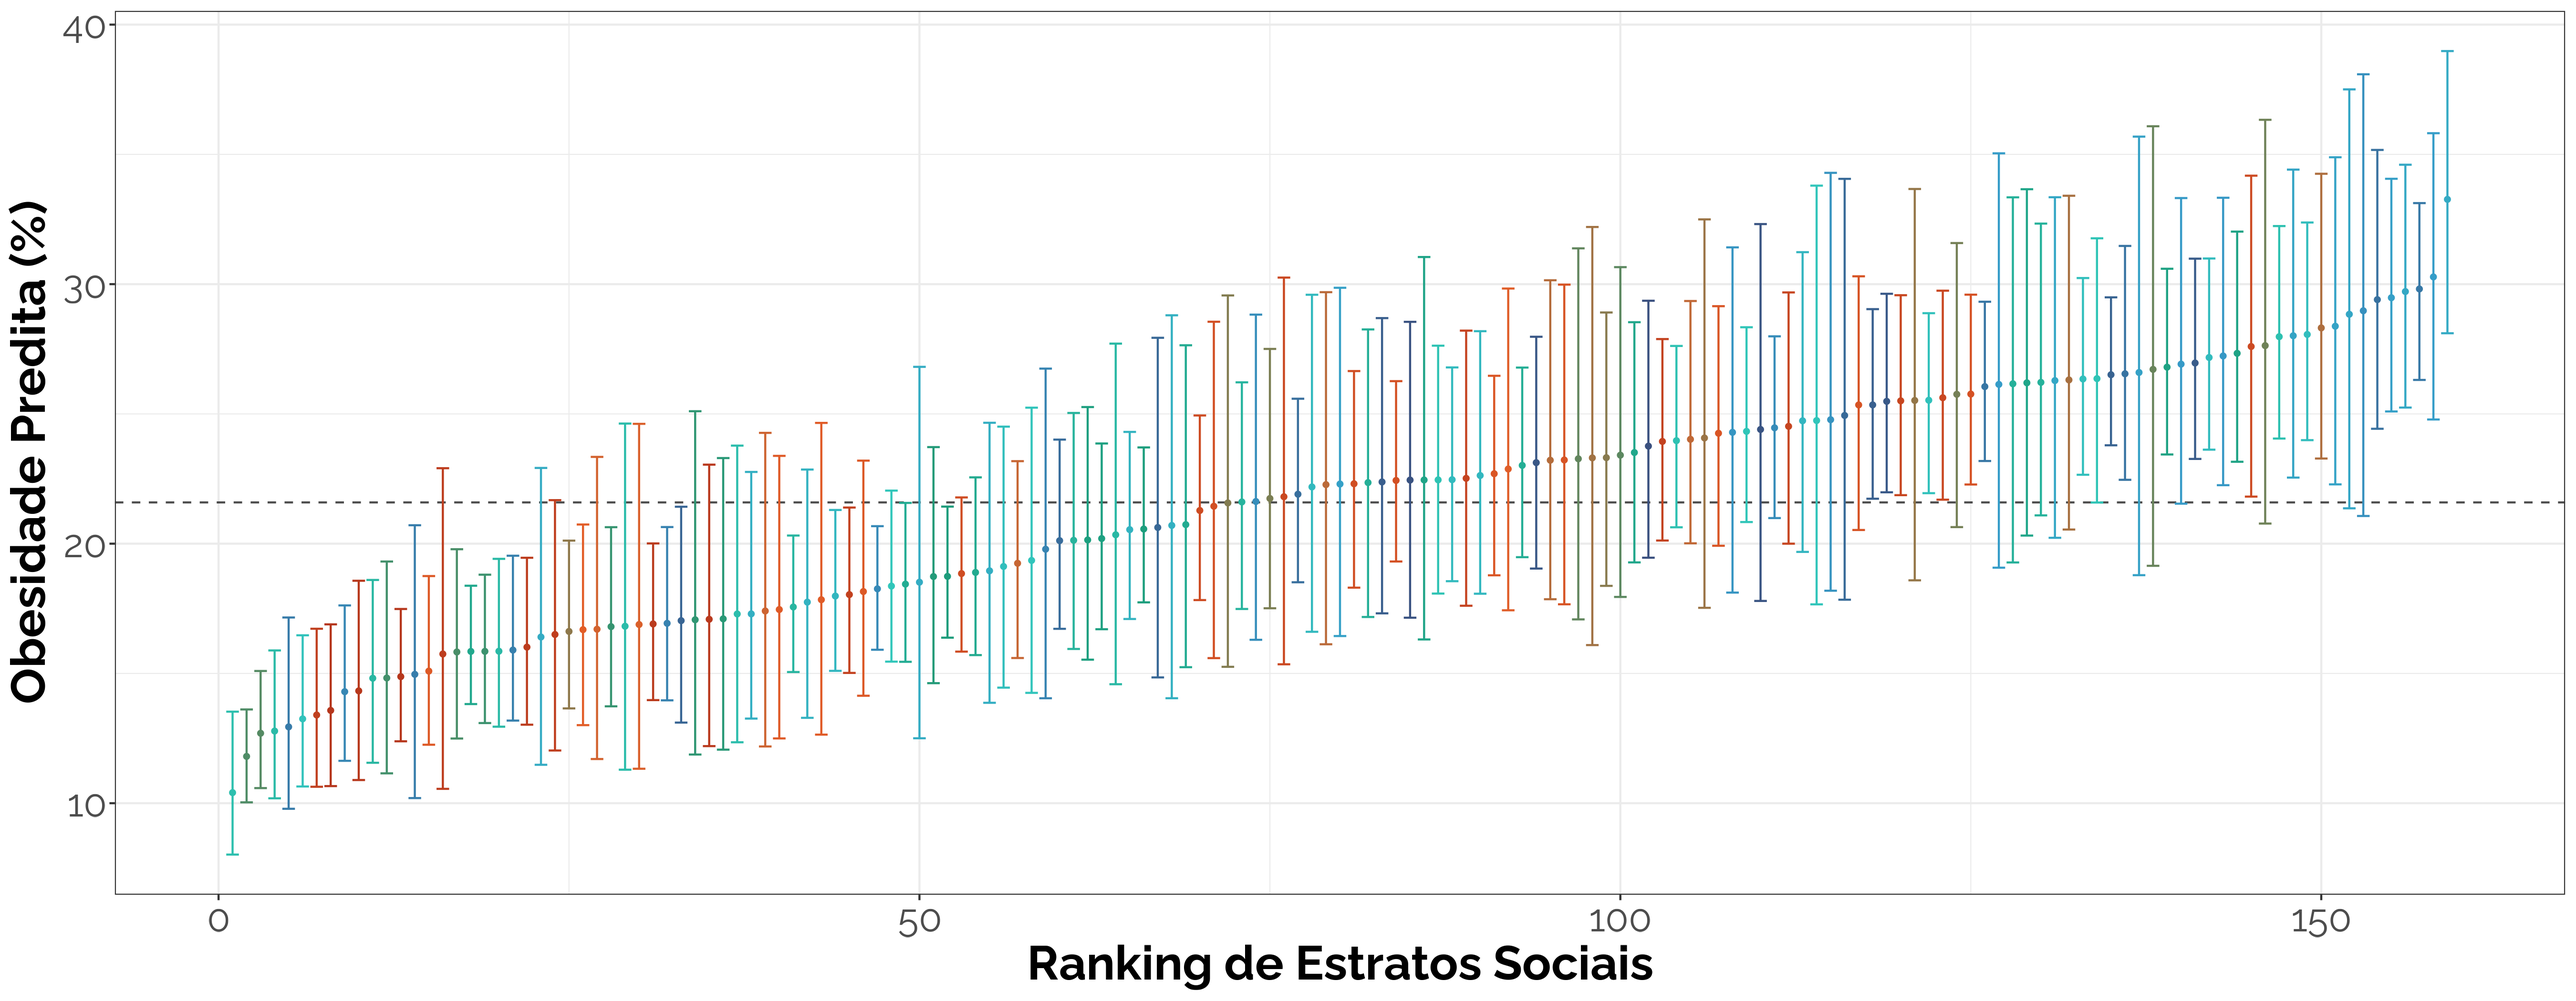
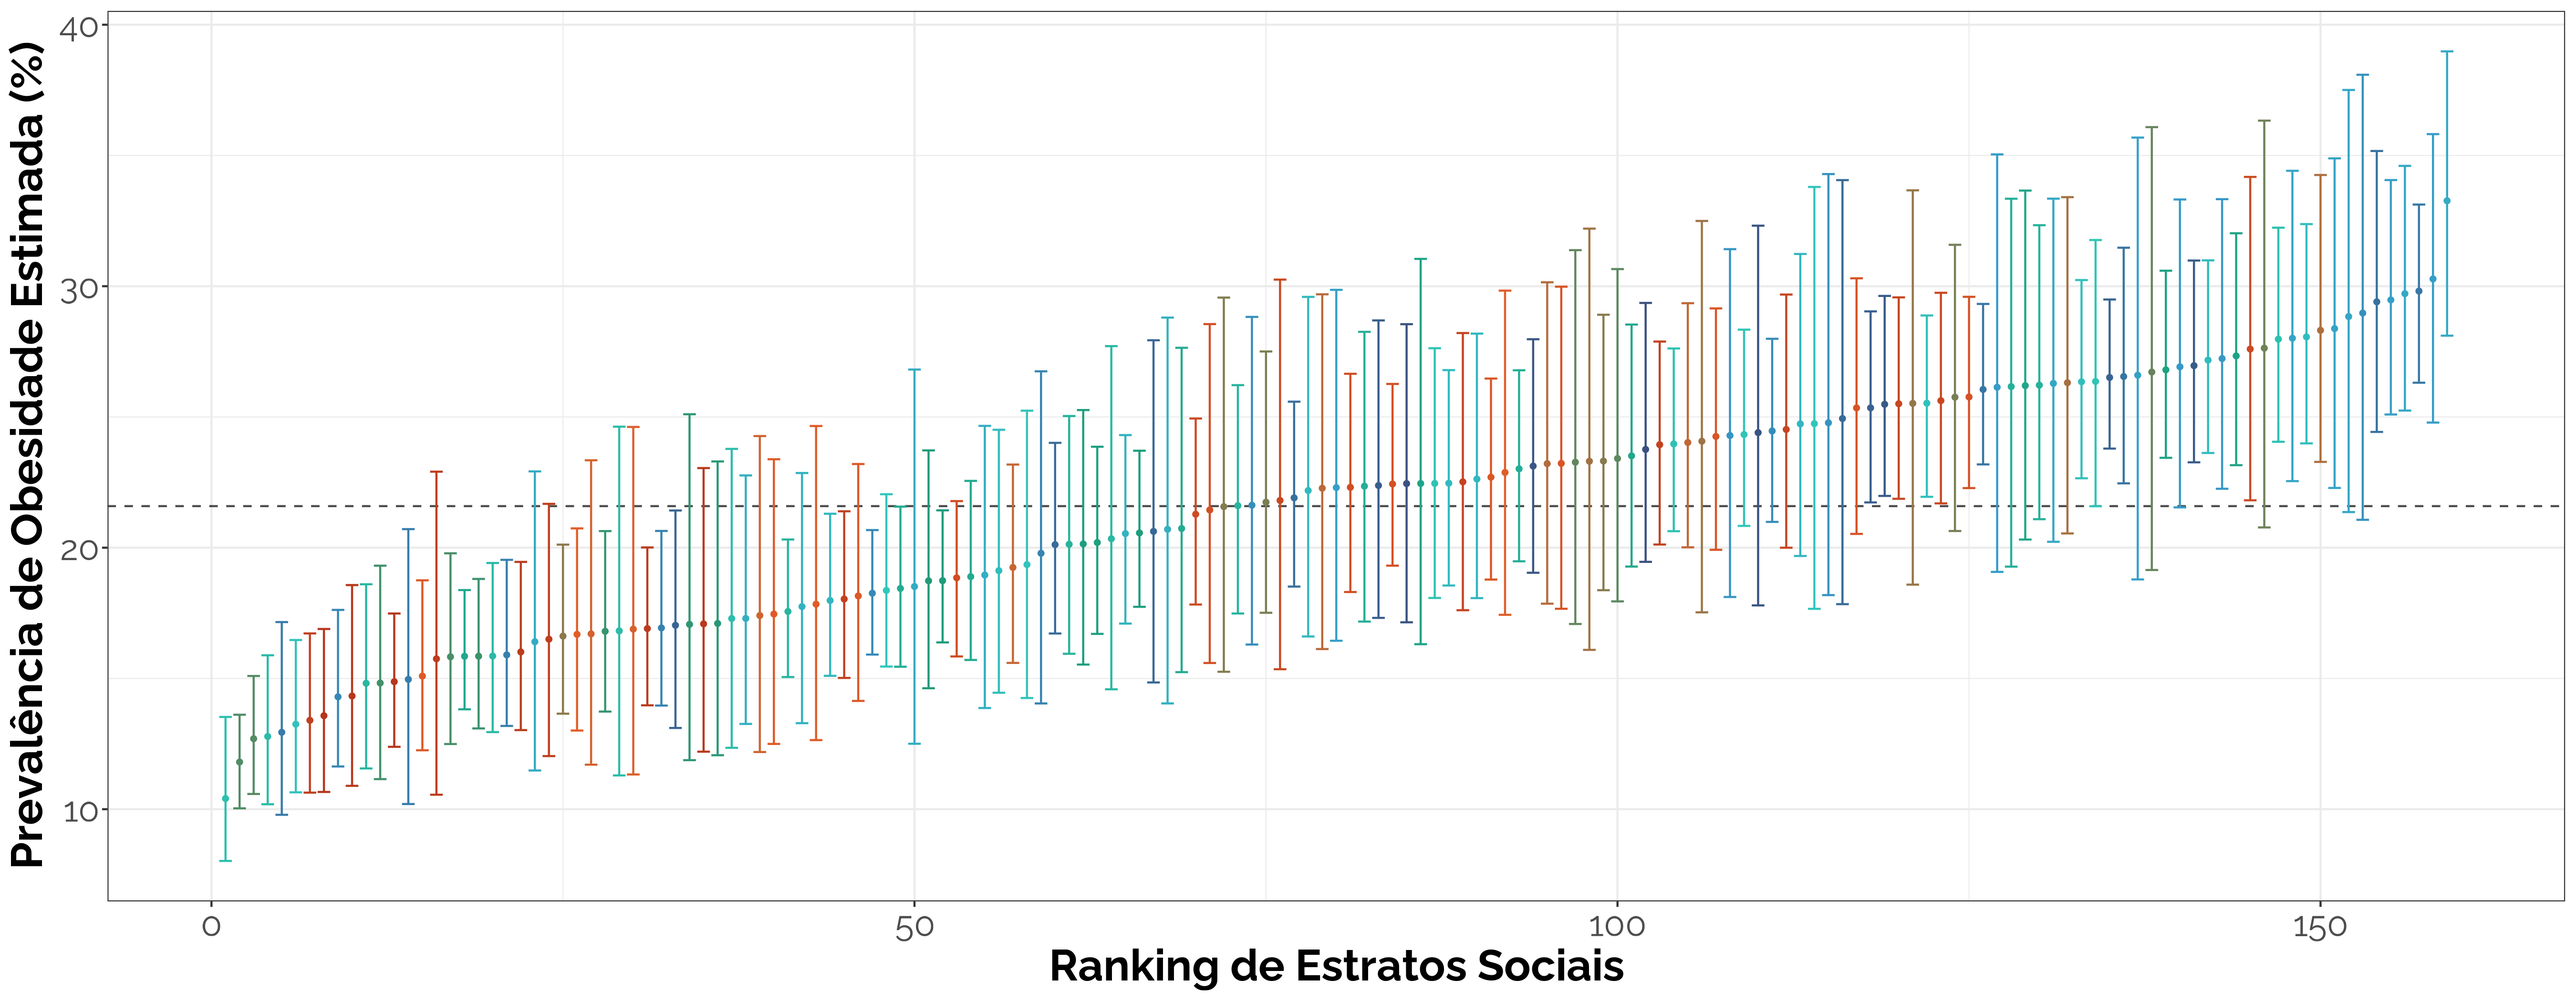
ajustes figuras e nova rotulação de variáveis

diff --git a/fig/tab2_modelos_epibr.html b/fig/tab2_modelos_epibr.html
@@ -1,0 +1,123 @@
+<table style="border-collapse:collapse; border:none;font-family: Raleway;">
+<tr>
+<th style="border-top: double; text-align:center; font-style:italic; font-weight:normal; padding:0.2cm; border-bottom:1px solid black; text-align:left; ">&nbsp;</th>
+<th colspan="2" style="border-top: double; text-align:center; font-style:italic; font-weight:normal; padding:0.2cm; border-bottom:1px solid black;">Modelo Nulo</th>
+<th colspan="2" style="border-top: double; text-align:center; font-style:italic; font-weight:normal; padding:0.2cm; border-bottom:1px solid black;">Modelo Aleatório</th>
+</tr>
+<tr>
+<td style=" text-align:center; border-bottom:1px solid; font-style:italic; font-weight:normal; border-bottom:1px solid black; text-align:left; ">Coeficiente</td>
+<td style=" text-align:center; border-bottom:1px solid; font-style:italic; font-weight:normal; border-bottom:1px solid black; ">Odds Ratios</td>
+<td style=" text-align:center; border-bottom:1px solid; font-style:italic; font-weight:normal; border-bottom:1px solid black; ">IC(95%)</td>
+<td style=" text-align:center; border-bottom:1px solid; font-style:italic; font-weight:normal; border-bottom:1px solid black; ">Odds Ratios</td>
+<td style=" text-align:center; border-bottom:1px solid; font-style:italic; font-weight:normal; border-bottom:1px solid black; ">IC(95%)</td>
+</tr>
+<tr>
+<td style=" padding:0.2cm; text-align:left; vertical-align:top; text-align:left; ">Intercepto</td>
+<td style=" padding:0.2cm; text-align:left; vertical-align:top; text-align:center;  ">0.27 <sup>***</sup></td>
+<td style=" padding:0.2cm; text-align:left; vertical-align:top; text-align:center;  ">0.25&nbsp;&ndash;&nbsp;0.29</td>
+<td style=" padding:0.2cm; text-align:left; vertical-align:top; text-align:center;  ">0.19 <sup>***</sup></td>
+<td style=" padding:0.2cm; text-align:left; vertical-align:top; text-align:center;  ">0.16&nbsp;&ndash;&nbsp;0.21</td>
+</tr>
+<tr>
+<td style=" padding:0.2cm; text-align:left; vertical-align:top; text-align:left; ">Gênero (Mulher)</td>
+<td style=" padding:0.2cm; text-align:left; vertical-align:top; text-align:center;  "></td>
+<td style=" padding:0.2cm; text-align:left; vertical-align:top; text-align:center;  "></td>
+<td style=" padding:0.2cm; text-align:left; vertical-align:top; text-align:center;  ">1.10 <sup>*</sup></td>
+<td style=" padding:0.2cm; text-align:left; vertical-align:top; text-align:center;  ">1.00&nbsp;&ndash;&nbsp;1.20</td>
+</tr>
+<tr>
+<td style=" padding:0.2cm; text-align:left; vertical-align:top; text-align:left; ">Raça (Preta)</td>
+<td style=" padding:0.2cm; text-align:left; vertical-align:top; text-align:center;  "></td>
+<td style=" padding:0.2cm; text-align:left; vertical-align:top; text-align:center;  "></td>
+<td style=" padding:0.2cm; text-align:left; vertical-align:top; text-align:center;  ">1.16 <sup>*</sup></td>
+<td style=" padding:0.2cm; text-align:left; vertical-align:top; text-align:center;  ">1.03&nbsp;&ndash;&nbsp;1.30</td>
+</tr>
+<tr>
+<td style=" padding:0.2cm; text-align:left; vertical-align:top; text-align:left; ">Raça (Pardo)</td>
+<td style=" padding:0.2cm; text-align:left; vertical-align:top; text-align:center;  "></td>
+<td style=" padding:0.2cm; text-align:left; vertical-align:top; text-align:center;  "></td>
+<td style=" padding:0.2cm; text-align:left; vertical-align:top; text-align:center;  ">1.02 <sup></sup></td>
+<td style=" padding:0.2cm; text-align:left; vertical-align:top; text-align:center;  ">0.92&nbsp;&ndash;&nbsp;1.13</td>
+</tr>
+<tr>
+<td style=" padding:0.2cm; text-align:left; vertical-align:top; text-align:left; ">Idade (Tercil2)</td>
+<td style=" padding:0.2cm; text-align:left; vertical-align:top; text-align:center;  "></td>
+<td style=" padding:0.2cm; text-align:left; vertical-align:top; text-align:center;  "></td>
+<td style=" padding:0.2cm; text-align:left; vertical-align:top; text-align:center;  ">1.57 <sup>***</sup></td>
+<td style=" padding:0.2cm; text-align:left; vertical-align:top; text-align:center;  ">1.40&nbsp;&ndash;&nbsp;1.75</td>
+</tr>
+<tr>
+<td style=" padding:0.2cm; text-align:left; vertical-align:top; text-align:left; ">Idade (Tercil3)</td>
+<td style=" padding:0.2cm; text-align:left; vertical-align:top; text-align:center;  "></td>
+<td style=" padding:0.2cm; text-align:left; vertical-align:top; text-align:center;  "></td>
+<td style=" padding:0.2cm; text-align:left; vertical-align:top; text-align:center;  ">1.53 <sup>***</sup></td>
+<td style=" padding:0.2cm; text-align:left; vertical-align:top; text-align:center;  ">1.37&nbsp;&ndash;&nbsp;1.71</td>
+</tr>
+<tr>
+<td style=" padding:0.2cm; text-align:left; vertical-align:top; text-align:left; ">Renda (Média)</td>
+<td style=" padding:0.2cm; text-align:left; vertical-align:top; text-align:center;  "></td>
+<td style=" padding:0.2cm; text-align:left; vertical-align:top; text-align:center;  "></td>
+<td style=" padding:0.2cm; text-align:left; vertical-align:top; text-align:center;  ">1.07 <sup></sup></td>
+<td style=" padding:0.2cm; text-align:left; vertical-align:top; text-align:center;  ">0.97&nbsp;&ndash;&nbsp;1.19</td>
+</tr>
+<tr>
+<td style=" padding:0.2cm; text-align:left; vertical-align:top; text-align:left; ">Renda (Alta)</td>
+<td style=" padding:0.2cm; text-align:left; vertical-align:top; text-align:center;  "></td>
+<td style=" padding:0.2cm; text-align:left; vertical-align:top; text-align:center;  "></td>
+<td style=" padding:0.2cm; text-align:left; vertical-align:top; text-align:center;  ">0.97 <sup></sup></td>
+<td style=" padding:0.2cm; text-align:left; vertical-align:top; text-align:center;  ">0.86&nbsp;&ndash;&nbsp;1.10</td>
+</tr>
+<tr>
+<td style=" padding:0.2cm; text-align:left; vertical-align:top; text-align:left; ">Educação (Média)</td>
+<td style=" padding:0.2cm; text-align:left; vertical-align:top; text-align:center;  "></td>
+<td style=" padding:0.2cm; text-align:left; vertical-align:top; text-align:center;  "></td>
+<td style=" padding:0.2cm; text-align:left; vertical-align:top; text-align:center;  ">1.00 <sup></sup></td>
+<td style=" padding:0.2cm; text-align:left; vertical-align:top; text-align:center;  ">0.89&nbsp;&ndash;&nbsp;1.11</td>
+</tr>
+<tr>
+<td style=" padding:0.2cm; text-align:left; vertical-align:top; text-align:left; ">Educação (Alta)</td>
+<td style=" padding:0.2cm; text-align:left; vertical-align:top; text-align:center;  "></td>
+<td style=" padding:0.2cm; text-align:left; vertical-align:top; text-align:center;  "></td>
+<td style=" padding:0.2cm; text-align:left; vertical-align:top; text-align:center;  ">0.90 <sup></sup></td>
+<td style=" padding:0.2cm; text-align:left; vertical-align:top; text-align:center;  ">0.80&nbsp;&ndash;&nbsp;1.01</td>
+</tr>
+<tr>
+<td colspan="5" style="font-weight:bold; text-align:left; padding-top:.8em;">Random Effects</td>
+</tr>
+
+<tr>
+<td style=" padding:0.2cm; text-align:left; vertical-align:top; text-align:left; padding-top:0.1cm; padding-bottom:0.1cm;">&sigma;<sup>2</sup></td>
+<td style=" padding:0.2cm; text-align:left; vertical-align:top; padding-top:0.1cm; padding-bottom:0.1cm; text-align:center;" colspan="2">3.29</td>
+<td style=" padding:0.2cm; text-align:left; vertical-align:top; padding-top:0.1cm; padding-bottom:0.1cm; text-align:center;" colspan="2">3.29</td>
+</tr>
+
+<tr>
+<td style=" padding:0.2cm; text-align:left; vertical-align:top; text-align:left; padding-top:0.1cm; padding-bottom:0.1cm;">&tau;<sub>00</sub></td>
+<td style=" padding:0.2cm; text-align:left; vertical-align:top; padding-top:0.1cm; padding-bottom:0.1cm; text-align:center;" colspan="2">0.10 <sub>stratum</sub></td>
+<td style=" padding:0.2cm; text-align:left; vertical-align:top; padding-top:0.1cm; padding-bottom:0.1cm; text-align:center;" colspan="2">0.05 <sub>stratum</sub></td>
+
+<tr>
+<td style=" padding:0.2cm; text-align:left; vertical-align:top; text-align:left; padding-top:0.1cm; padding-bottom:0.1cm;">ICC</td>
+<td style=" padding:0.2cm; text-align:left; vertical-align:top; padding-top:0.1cm; padding-bottom:0.1cm; text-align:center;" colspan="2">0.03</td>
+<td style=" padding:0.2cm; text-align:left; vertical-align:top; padding-top:0.1cm; padding-bottom:0.1cm; text-align:center;" colspan="2">0.01</td>
+
+<tr>
+<td style=" padding:0.2cm; text-align:left; vertical-align:top; text-align:left; padding-top:0.1cm; padding-bottom:0.1cm;">N</td>
+<td style=" padding:0.2cm; text-align:left; vertical-align:top; padding-top:0.1cm; padding-bottom:0.1cm; text-align:center;" colspan="2">159 <sub>stratum</sub></td>
+<td style=" padding:0.2cm; text-align:left; vertical-align:top; padding-top:0.1cm; padding-bottom:0.1cm; text-align:center;" colspan="2">159 <sub>stratum</sub></td>
+<tr>
+<td style=" padding:0.2cm; text-align:left; vertical-align:top; text-align:left; padding-top:0.1cm; padding-bottom:0.1cm; border-top:1px solid;">Observations</td>
+<td style=" padding:0.2cm; text-align:left; vertical-align:top; padding-top:0.1cm; padding-bottom:0.1cm; text-align:center; border-top:1px solid;" colspan="2">71896</td>
+<td style=" padding:0.2cm; text-align:left; vertical-align:top; padding-top:0.1cm; padding-bottom:0.1cm; text-align:center; border-top:1px solid;" colspan="2">71896</td>
+</tr>
+<tr>
+<td style=" padding:0.2cm; text-align:left; vertical-align:top; text-align:left; padding-top:0.1cm; padding-bottom:0.1cm;">Marginal R<sup>2</sup> / Conditional R<sup>2</sup></td>
+<td style=" padding:0.2cm; text-align:left; vertical-align:top; padding-top:0.1cm; padding-bottom:0.1cm; text-align:center;" colspan="2">0.000 / 0.030</td>
+<td style=" padding:0.2cm; text-align:left; vertical-align:top; padding-top:0.1cm; padding-bottom:0.1cm; text-align:center;" colspan="2">0.015 / 0.029</td>
+</tr>
+<tr>
+<td colspan="5" style="font-style:italic; border-top:double black; text-align:right;">* p&lt;0.05&nbsp;&nbsp;&nbsp;** p&lt;0.01&nbsp;&nbsp;&nbsp;*** p&lt;0.001</td>
+</tr>
+
+</table>
+
